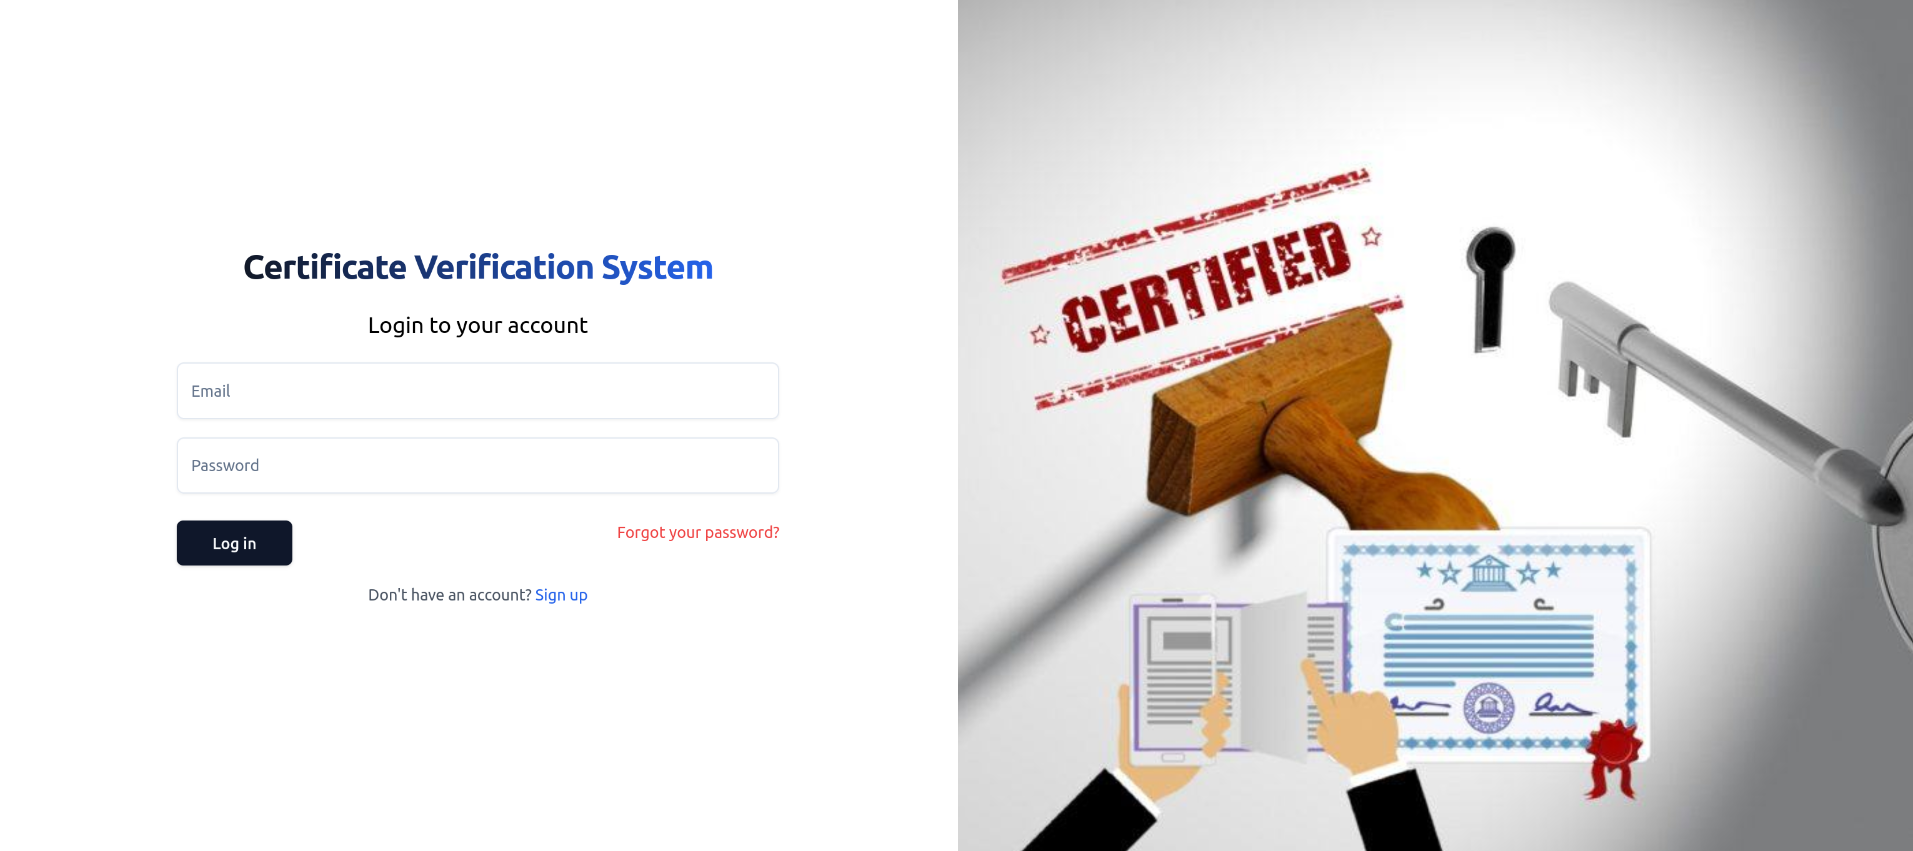
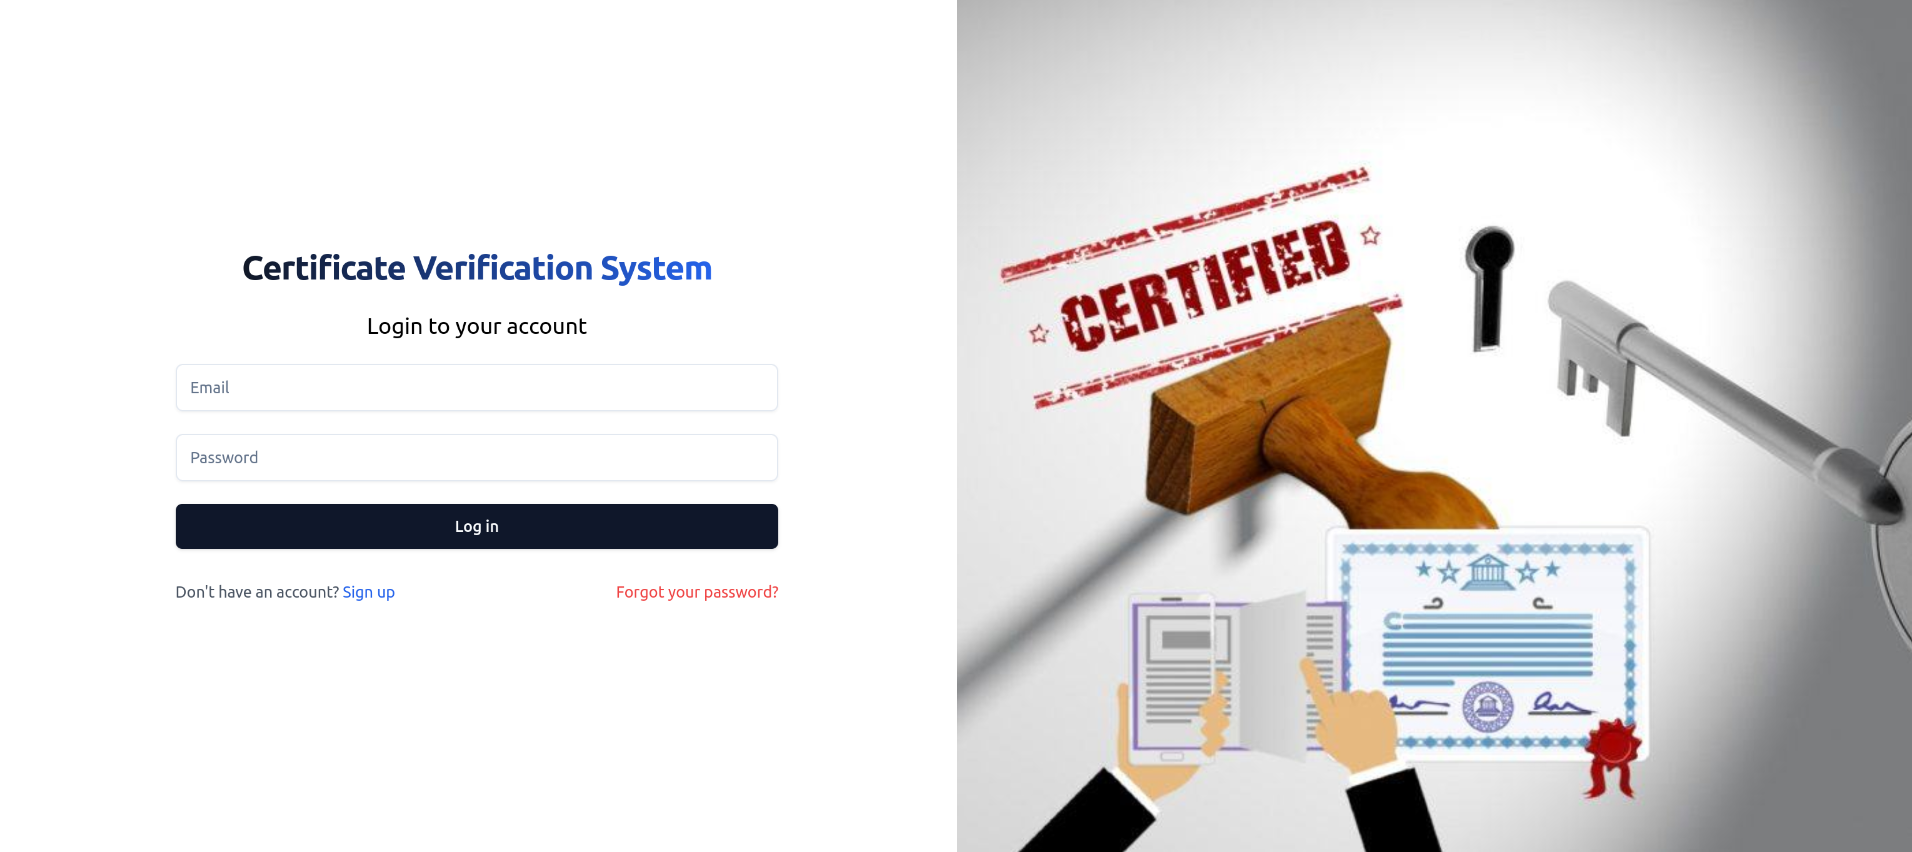
auth pages ui update

diff --git a/src/pages/Signup.jsx b/src/pages/Signup.jsx
@@ -19,7 +19,7 @@ const Signup = () => {
         </h1>
         <h3 className="text-xl">Create your new account</h3>
 
-        <form onSubmit={handleSubmit(onSubmit)} className="w-full space-y-4">
+        <form onSubmit={handleSubmit(onSubmit)} className="w-full space-y-5">
           <div className="flex flex-col sm:flex-row gap-5">
             <div className="w-full">
               <Input
@@ -28,7 +28,7 @@ const Signup = () => {
                 {...register("firstName", {
                   required: "First Name is required",
                 })}
-                className="w-full py-6 text-gray-900 focus-visible:ring-0"
+                className="w-full py-5 text-gray-900 focus-visible:ring-0"
               />
               {errors.firstName && (
                 <span className="text-red-500 text-xs">
@@ -41,7 +41,7 @@ const Signup = () => {
                 type="lastName"
                 placeholder="Last Name"
                 {...register("lastName", { required: "Last Name is required" })}
-                className="w-full py-6 text-gray-900 focus-visible:ring-0"
+                className="w-full py-5 text-gray-900 focus-visible:ring-0"
               />
               {errors.lastName && (
                 <span className="text-red-500 text-xs">
@@ -54,7 +54,7 @@ const Signup = () => {
             type="email"
             placeholder="Email"
             {...register("email", { required: "Email is required" })}
-            className="w-full py-6 text-gray-900 focus-visible:ring-0"
+            className="w-full py-5 text-gray-900 focus-visible:ring-0"
           />
           {errors.email && (
             <span className="text-red-500 text-xs">{errors.email.message}</span>
@@ -63,7 +63,7 @@ const Signup = () => {
             type="password"
             placeholder="Password"
             {...register("password", { required: "Password is required" })}
-            className="w-full py-6 text-gray-900 focus-visible:ring-0"
+            className="w-full py-5 text-gray-900 focus-visible:ring-0"
           />
           {errors.password && (
             <span className="text-red-500 text-xs">
@@ -71,16 +71,16 @@ const Signup = () => {
             </span>
           )}
 
-          <div className="flex flex-wrap justify-between items-end pt-2 gap-5">
-            <Button type="submit" size="lg">
+          <div className="w-full">
+            <Button type="submit" size="lg" className="w-full">
               Sign up
             </Button>
-            <div className="text-sm">
-              <span className="text-gray-600">Already have an account? </span>{" "}
-              <Link to="/login" className="text-primary hover:underline">
-                Log in
-              </Link>
-            </div>
+          </div>
+          <div className="text-sm">
+            <span className="text-gray-600">Already have an account? </span>{" "}
+            <Link to="/login" className="text-primary hover:underline">
+              Log in
+            </Link>
           </div>
         </form>
       </div>

diff --git a/src/pages/Login.jsx b/src/pages/Login.jsx
@@ -20,12 +20,12 @@ const Login = () => {
         </h1>
         <h3 className="text-xl">Login to your account</h3>
 
-        <form onSubmit={handleSubmit(onSubmit)} className="w-full space-y-4">
+        <form onSubmit={handleSubmit(onSubmit)} className="w-full space-y-5">
           <Input
             type="email"
             placeholder="Email"
             {...register("email", { required: "Email is required" })}
-            className="w-full py-6 text-gray-900 focus-visible:ring-0"
+            className="w-full py-5 text-gray-900 focus-visible:ring-0"
           />
           {errors.email && (
             <span className="text-red-500 text-xs">{errors.email.message}</span>
@@ -34,28 +34,32 @@ const Login = () => {
             type="password"
             placeholder="Password"
             {...register("password", { required: "Password is required" })}
-            className="w-full py-6 text-gray-900 focus-visible:ring-0"
+            className="w-full py-5 text-gray-900 focus-visible:ring-0"
           />
           {errors.password && (
             <span className="text-red-500 text-xs">
               {errors.password.message}
             </span>
           )}
-          <div className="flex flex-wrap justify-between pt-2 gap-5">
-            <Button type="submit" size="lg">
+          <div className="w-full">
+            <Button type="submit" size="lg" className="w-full">
               Log in
             </Button>
+          </div>
+          <div className="flex flex-wrap justify-between pt-2 gap-5 text-sm">
+            <div>
+              <span className="text-gray-600">
+                Don&apos;t have an account?{" "}
+              </span>{" "}
+              <Link to="/signup" className="text-primary hover:underline">
+                Sign up
+              </Link>
+            </div>
             <Link
               to="/forgot-password"
-              className="text-red-500 text-sm hover:underline"
+              className="text-red-500 hover:underline"
             >
               Forgot your password?
-            </Link>
-          </div>
-          <div className="text-sm w-full text-center">
-            <span className="text-gray-600">Don&apos;t have an account? </span>{" "}
-            <Link to="/signup" className="text-primary hover:underline">
-              Sign up
             </Link>
           </div>
         </form>

diff --git a/src/pages/ForgotPassword.jsx b/src/pages/ForgotPassword.jsx
@@ -29,7 +29,7 @@ const ForgotPassword = () => {
               type="email"
               placeholder="Email"
               {...register("email", { required: "Email is required" })}
-              className="w-full py-6 text-gray-900 focus-visible:ring-0"
+              className="w-full py-5 text-gray-900 focus-visible:ring-0"
             />
             {errors.email && (
               <span className="text-red-500 text-xs">
@@ -41,7 +41,7 @@ const ForgotPassword = () => {
                 Send Reset Link
               </Button>
               <div className="text-gray-600 text-sm">OR</div>
-              <Link to="/" className="text-red-500 hover:underline -mt-1">
+              <Link to="/" className="text-primary hover:underline -mt-1">
                 Back to Login
               </Link>
             </div>
